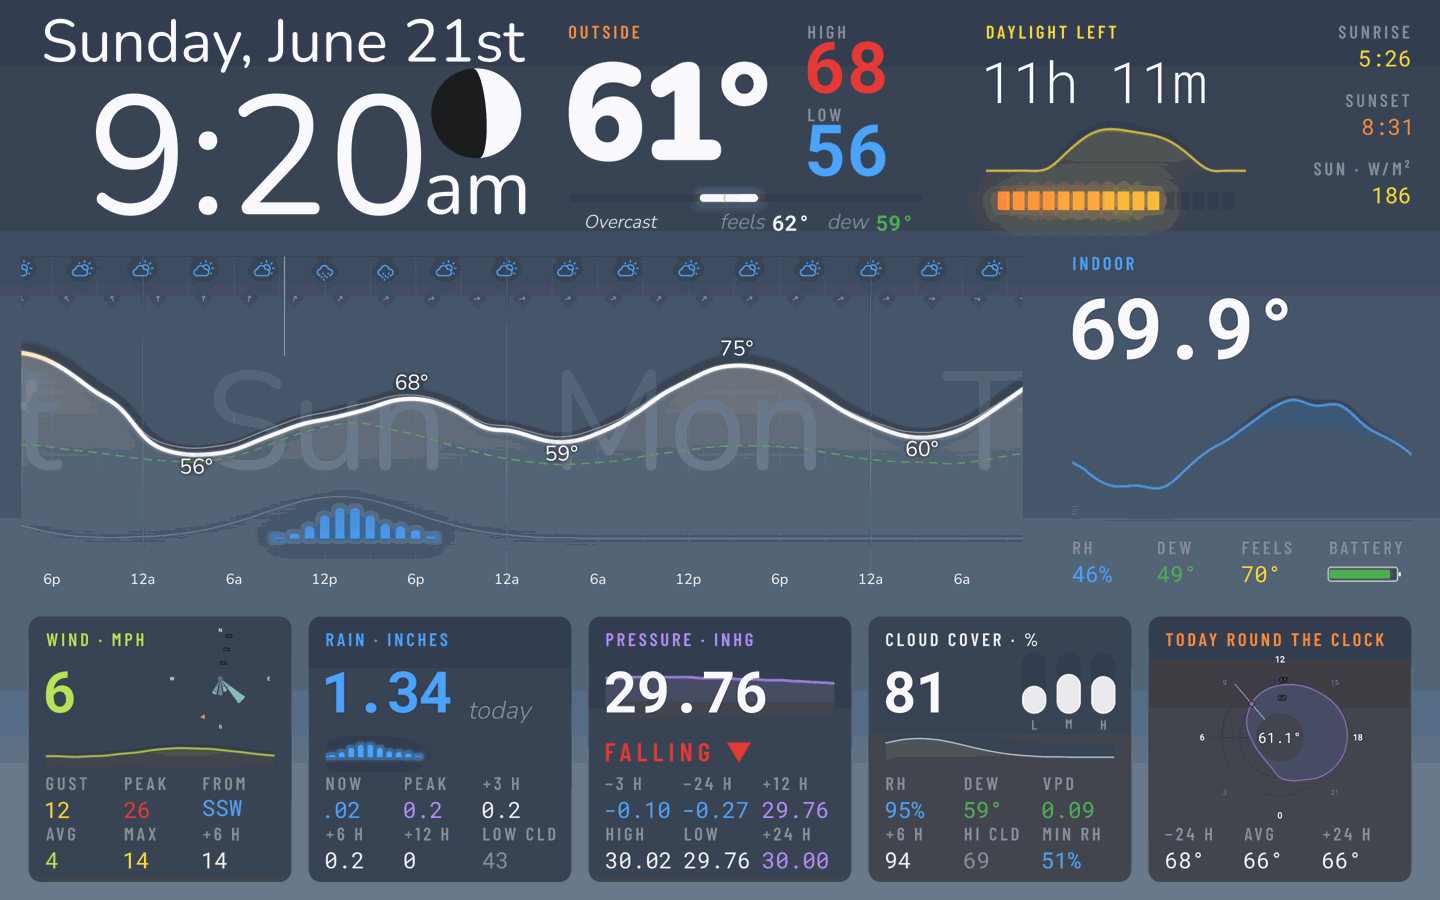
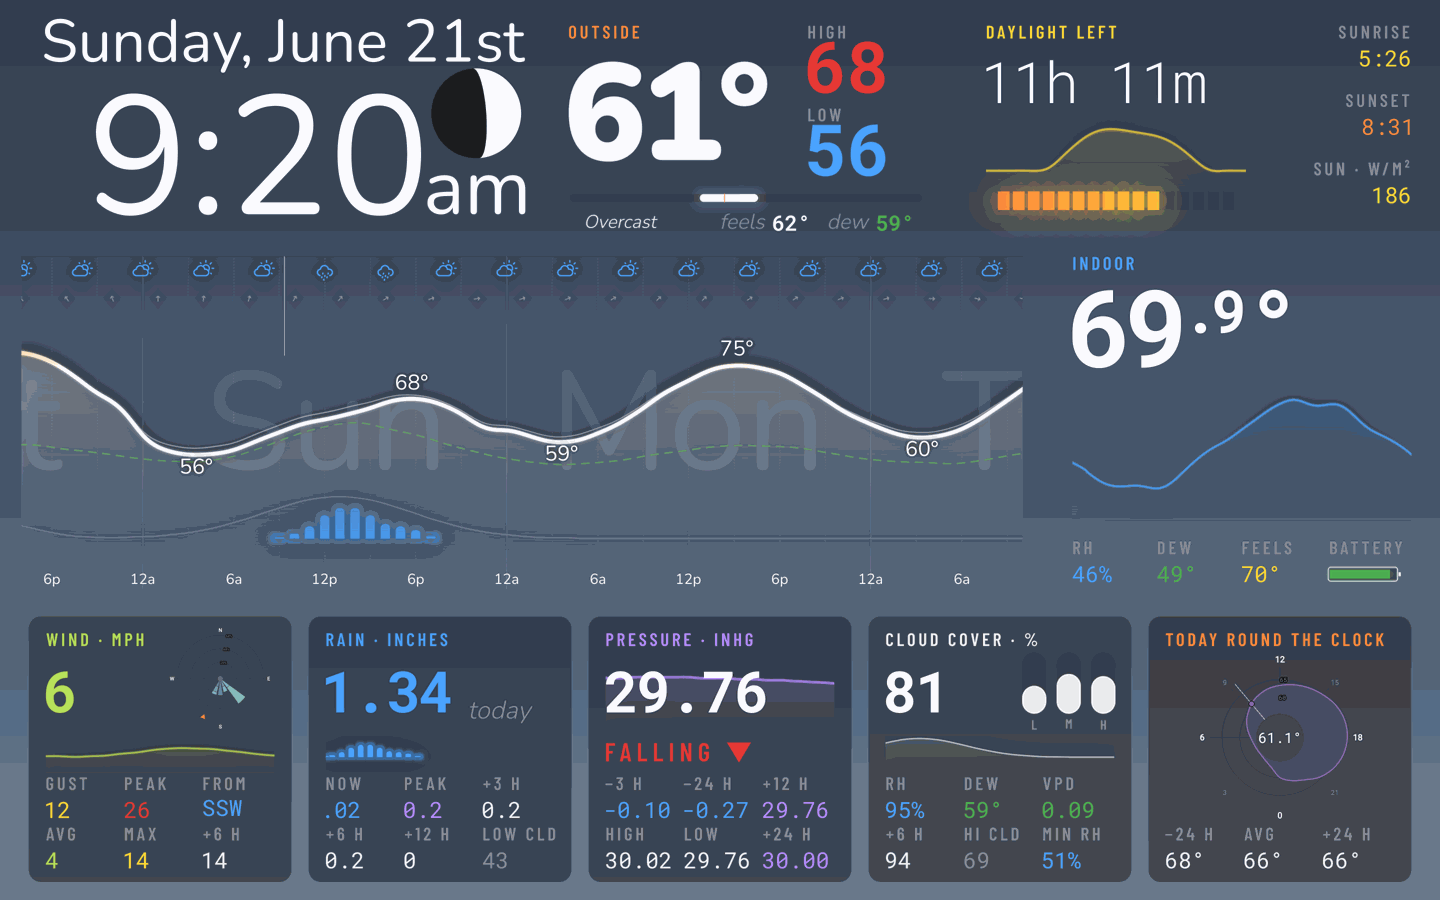
feat(Showcase): room temperatures with small raised tenths
Uses decimal-scale/decimal-align from #298, so the whole degrees grow
and the tenths sit small at the top.

Claude-Session: https://claude.ai/code/session_01P1S9nMzFZHowZTvjwnQnbx

Changed region(s): [[0.75, 0.3111, 0.9062, 0.4044]]

diff --git a/docs/design-references/showcase/default.py b/docs/design-references/showcase/default.py
@@ -113,13 +113,16 @@ def cap_(s, geom, color='$faint', **kw):
 	return cap(s, geom, color, font=LABEL, weight='SemiBold', **kw)
 
 
-def num(key, geom, color='$text', weight='Regular', font='$mono', **kw):
+def num(key, geom, color='$text', weight='Regular', font='$mono', small=False, **kw):
 	"""A number. Fixed-width (Roboto Mono) unless it is the one big temperature, so digits line up and do not jump."""
 	item = val(key, geom, color, font=font, weight=weight, **kw)
 	# No inset: the ink's left edge sits on the box's edge, so a number lines up under its caption.
 	item['margins'] = {'left': 0, 'right': 0, 'top': 0, 'bottom': 0}
 	item['display']['valueLabel'].setdefault('alignment', item['alignment'])
 	item['display']['valueLabel']['margins'] = {'left': 0, 'right': '10%', 'top': 0, 'bottom': 0}  # a gutter to the next column
+	if small:
+		# The tenths drawn smaller, raised to the top of the digits: 67⁷° reads as sixty-seven at a glance.
+		item['display']['valueLabel'].update({'decimal-scale': 0.55, 'decimal-align': 'top'})
 	return item
 
 
@@ -181,7 +184,7 @@ def room(caption, sfx, color, x, y, w, h, i):
 		out += [
 			mini(temp, g(x, y + CAP + 0.8, w, body), color=color, hours=24, past=True, top='42%', bottom='0%', opacity=0.8, fill=0.3, weight=0.5,
 			     glow=GLOW),
-			num(temp, g(x, y + CAP + 0.8, w * 0.7, 11.5), '$text', weight='Bold', tracking=-0.06, unit='Inline', hint='00.0°', precision=1,
+			num(temp, g(x, y + CAP + 0.8, w * 0.7, 11.5), '$text', weight='Bold', tracking=-0.06, unit='Inline', hint='00.0°', precision=1, small=True,
 			    group='global.room', align='TopLeft'),
 		]
 		quarter = w / len(rows)
@@ -197,7 +200,7 @@ def room(caption, sfx, color, x, y, w, h, i):
 	out += [
 		mini(temp, g(x, y + CAP + 0.8, left - 0.8, hh), color=color, hours=24, past=True, top='45%', bottom='0%', opacity=0.8, fill=0.3, weight=0.5,
 		     glow=GLOW),
-		num(temp, g(x, y + CAP + 0.8, left - 0.8, hh * 0.62), '$text', weight='Bold', tracking=-0.06, unit='Inline', hint='00.0°', precision=1,
+		num(temp, g(x, y + CAP + 0.8, left - 0.8, hh * 0.62), '$text', weight='Bold', tracking=-0.06, unit='Inline', hint='00.0°', precision=1, small=True,
 		    group='global.room', align='TopLeft'),
 	]
 	# Four readings in two columns, the outer one flush to the board's edge so the panel reaches it.
